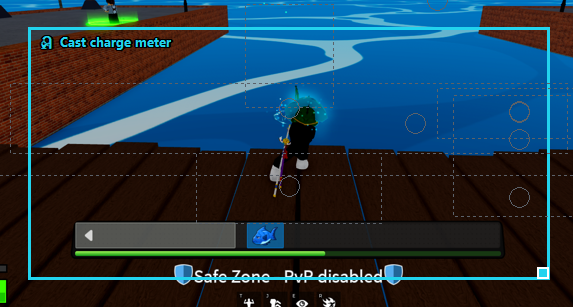
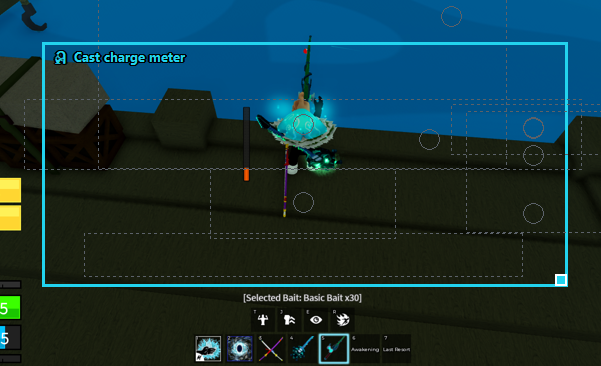
Stop read_bar declaring the bar gone while the fish is still on
This is the "forgets it is fishing mid-catch" report, finally reproduced
offline from the tester's recording. At frame 296 read_bar returns None while
progress_bar_present is still True: the minigame is running, the zone is
perfectly readable (131 zone columns), and the bar is reported missing.

The engine's safety net does hold on - it sees the progress strip and refuses
to end the catch. But while read_bar returns None the reel loop `continue`s,
so the controller is never driven. The fight carries on with nobody steering,
the fish walks out of the zone, and the catch is lost. From outside that is
indistinguishable from the bot giving up.

The culprit is read_bar's track-coverage gate, which was tuned at 0.35 on one
machine where coverage sits at 0.53-0.61. Mid-fight elsewhere:

    author, 4K        0.530..0.609
    tester A, 1080p   0.273..0.526   bright effect through the translucent bar
    tester B, 1080p   0.036..0.165   track renders (24,32,32)

Two independent machine dependencies, neither visible where it was written.
Tester B's is its own bug: track_mask required the three channels to agree
within a hardcoded 6, and (24,32,32) has an 8-point gap between blue and
green, so it matched 4% of a track that fills 70% of the strip.

  * Colors.track_neutral_tol (12) replaces that hardcoded 6. Tester B's
    coverage goes 0.036 -> 0.548.
  * bar_track_min_frac 0.35 -> 0.12, below the worst observed live value
    (0.29) and far above a strip showing sky (0.001).
[…]

diff --git a/bloxfish/config.py b/bloxfish/config.py
@@ -34,6 +34,12 @@ class Colors:
 
     track: tuple = (34, 34, 34)
     track_tol: int = 14
+    # How far the track's three channels may differ from each other. Measured
+    # across machines: the author's renders (34,34,34) but a tester's renders
+    # (24,32,32), an 8-point gap between blue and green. This was hardcoded at
+    # 6, so on that machine the mask matched 4% of the track instead of 70% and
+    # the bot decided the bar had gone, mid-fight, several times a catch.
+    track_neutral_tol: int = 12
 
     # Green zone. Two accepted looks, both neutral between blue and red:
     #   * green-dominant — the normal zone (16,150,21) and its arrow (193,230,195)
@@ -251,11 +257,25 @@ class Detection:
     # gone stays gone, so a generous interval costs nothing real.
     bar_lost_seconds: float = 0.9
     # Proof the bar is still on screen: this fraction of the strip must still be
-    # the track's dark background. Needed because the zone tracker accepts the
-    # neutral-grey alarm state, and grey scenery would otherwise read as a zone
-    # once the bar is gone. Measured: >=0.553 while a minigame runs, <=0.210 at
-    # the 95th percentile once it ends.
-    bar_track_min_frac: float = 0.35
+    # the track's dark background. It exists because the zone tracker accepts
+    # the neutral-grey alarm state, which grey scenery also satisfies.
+    #
+    # It is a FLOOR, not a discriminator, and the difference matters. At 0.35 it
+    # was doing the second job, tuned on one machine where coverage sat at
+    # 0.53-0.61 with room to spare. Measured elsewhere, mid-fight, on 1252
+    # frames from three recordings: 0.27 on a tester's machine when a bright
+    # effect shone through the semi-transparent bar, and 0.04 on another before
+    # `track_neutral_tol` was fixed. Every frame under the threshold is a frame
+    # the reel loop reads no zone and therefore *does not steer* -- 29% of one
+    # fight, spent drifting, which looks exactly like the bot giving up
+    # mid-catch.
+    #
+    # Lowering it costs nothing measurable: across those same recordings the
+    # gate rejected 0 of 713 after-the-fact frames at ANY threshold down to
+    # 0.0, because read_bar's zone-column test already rejects them. 0.12 sits
+    # below the worst observed live value (0.29) and far above a strip showing
+    # sky or water (0.001).
+    bar_track_min_frac: float = 0.12
     # Before calling a catch finished, confirm the progress strip is really
     # gone. It must span at least this fraction of the track to count as still
     # drawn. Losing the zone alone means nothing — a chest sitting on a small

diff --git a/bloxfish/engine.py b/bloxfish/engine.py
@@ -144,10 +144,18 @@ class FishingEngine:
                      f"wide; the bar needs at least {need_w}px to be accepted. "
                      f"Widen it in Calibrate controls or the bar will never be "
                      f"found.")
-        if self.bar_search.height < 60:
+        # Height has to be judged against the window, not in raw pixels. A flat
+        # "under 60 px" rule fired on a 1264x704 window where the box was 59 px
+        # -- 8.4% of the screen for a bar that measures 6.6%, which was fine and
+        # was proven fine: the margin can go to zero on both axes without losing
+        # a single frame. Only a box shorter than the bar itself is a problem.
+        need_h = int(self.window.height * 0.075)
+        if self.bar_search.height < need_h:
             self.log(f"[warn] the reel bar box is only {self.bar_search.height}px "
-                     f"tall. It needs room below the bar for the thin progress "
-                     f"strip, which is what identifies the bar at all.")
+                     f"tall and the bar itself is about "
+                     f"{int(self.window.height * 0.066)}px. It also needs the "
+                     f"thin progress strip underneath, which is what identifies "
+                     f"the bar at all — give it a little room below.")
         self.log(f"bite marker search over a "
                  f"{self.bite_roi.width}x{self.bite_roi.height} ROI "
                  f"(HSV ring, confirm x{cfg.detection.bite_confirm})")

diff --git a/bloxfish/vision.py b/bloxfish/vision.py
@@ -75,11 +75,19 @@ def zone_mask_tracking(img: np.ndarray, c: Colors) -> np.ndarray:
 
 
 def track_mask(img: np.ndarray, c: Colors) -> np.ndarray:
+    """The reel track's dark background.
+
+    Neutral grey close to (34,34,34): the channels must also agree with each
+    other, which rejects most of the dark scenery. How closely they have to
+    agree is `track_neutral_tol` and it is not a formality — it was hardcoded
+    at 6, and on a machine whose track renders (24,32,32) the blue channel sits
+    8 below green, so every track pixel failed and coverage read 0.04 instead
+    of 0.70. The bar was plainly there; the mask simply could not see it.
+    """
     b, g, r = _split(img)
-    # Neutral grey close to (34,34,34): channels must also agree with each other,
-    # which rejects most of the dark scenery.
+    tol = c.track_neutral_tol
     return ((np.abs(b - c.track[0]) <= c.track_tol)
-            & (np.abs(b - g) <= 6) & (np.abs(g - r) <= 6))
+            & (np.abs(b - g) <= tol) & (np.abs(g - r) <= tol))
 
 
 def fish_mask(img: np.ndarray, c: Colors) -> np.ndarray:

diff --git a/docs/MECHANICS.md b/docs/MECHANICS.md
@@ -143,8 +143,33 @@ Two guards handle it:
   starts;
 * **tracking** it (`zone_mask_tracking`) is permissive, but `read_bar` first
   requires the track's dark background to still cover `bar_track_min_frac` of
-  the strip. Measured: **>=0.553 throughout a minigame, <=0.210 (p95) once the
-  bar is gone**.
+  the strip.
+
+That last gate is a **floor, not a discriminator**, and it took two field
+reports to learn the difference. It was set at 0.35 from one machine, where
+coverage runs 0.53–0.61. Elsewhere, mid-fight:
+
+| recording | track coverage while running | why |
+|---|---|---|
+| author, 4K | 0.530–0.609 | — |
+| tester A, 1080p | **0.273**–0.526 | a bright effect shining through the semi-transparent bar |
+| tester B, 1080p | **0.036**–0.165 | track renders `(24,32,32)`; `track_mask` demanded the channels agree within 6 |
+
+Every frame under the threshold is a frame `read_bar` returns `None`, the reel
+loop `continue`s, and **the controller is not driven**. The fight carries on
+un-steered — 29% of one catch — which from outside looks exactly like the bot
+giving up mid-fish.
+
+Both were fixed by measurement, not by guessing: `track_neutral_tol` (12, was a
+hardcoded 6) makes the mask see tester B's track at 0.548 instead of 0.036, and
+the threshold drops to 0.12. That costs nothing, because across 713 frames from
+three recordings taken *after* the bar was gone, this gate rejected **none** of
+them at any threshold down to 0.0 — `read_bar`'s zone-column test was already
+doing the whole job.
+
+Measured over 1252 frames, three machines: frames steered while the minigame
+was live went from **297/539 (55%) to 539/539 (100%)**, with phantom reads
+staying at **0/713**.
 
 Verified: the failing recording goes from 4 phantom "catches" to **0**, while
 the reference still yields exactly 3 minigames with the same boundaries and
